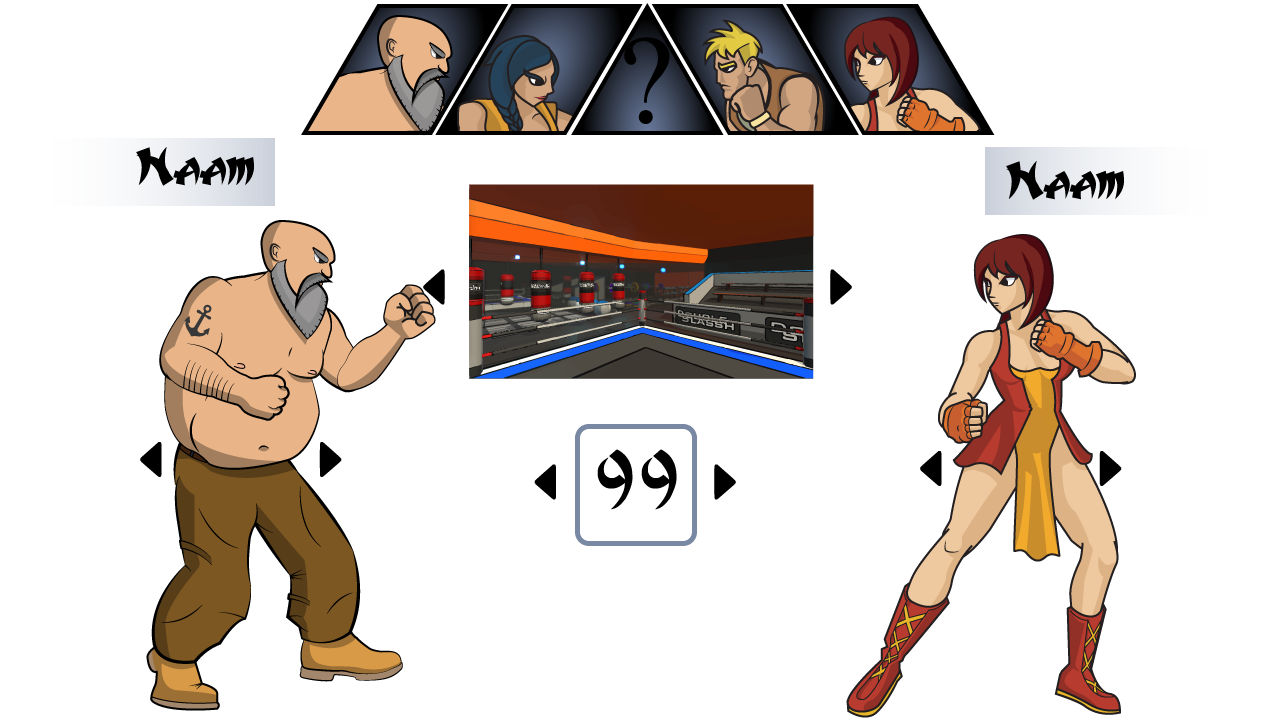
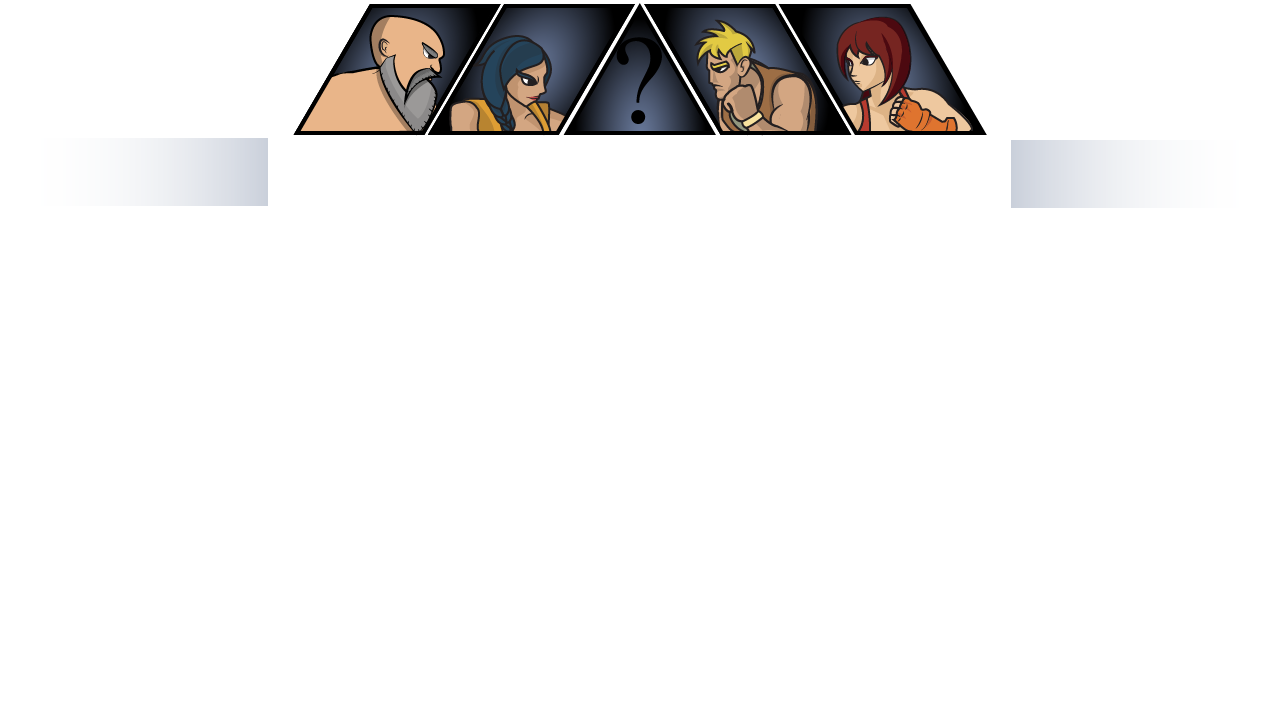
Character Selection

diff --git a/Assets/Scripts/User Interface/MainMenu.cs b/Assets/Scripts/User Interface/MainMenu.cs
@@ -7,38 +7,56 @@ public class MainMenu : MonoBehaviour {
 	[SerializeField] Texture[] optionsItems;
 	[SerializeField] Texture backButton;
 	[SerializeField] GameObject blankObject;
-	[SerializeField] int index = 0;
+	[SerializePrivateVariables] int index = 0;
 	[SerializePrivateVariables] Vector3 spawnLoc;
 	[SerializePrivateVariables] Vector3 optionsSpawnLoc;
 	[SerializePrivateVariables] Vector3 backbuttonSpawnLoc;
-	[SerializeField] public bool menu = false;
-	[SerializeField] bool options = false;
-	[SerializeField] bool cSelect = false;
-	[SerializeField] GUIStyle style;
+	[SerializePrivateVariables] public bool menu = false;
+	[SerializePrivateVariables] bool options = false;
+	[SerializePrivateVariables] bool cSelect = false;
+	[SerializePrivateVariables] GUIStyle style;
 	[SerializeField] float musicVolume=1;
 	[SerializeField] float effectVolume=1;
-	[SerializeField] private float offset=0.2f;
+	[SerializePrivateVariables] float offset=0.2f;
 	[SerializeField] int difficulty;
 //	[SerializeField] Texture[] characters;
 	[SerializeField] MainMenuCameraMovement cam;
 	[SerializeField] GameObject[] characters;
 	[SerializeField] Texture UI;
+	[SerializeField] Texture Gym;
+	[SerializePrivateVariables] Texture usingArena;
 	[SerializeField] private int choise1 = 0;
 	[SerializeField] private int choise2 = 1;
 	[SerializeField] private int count = 0;
 	[SerializeField] float random;
-	[SerializeField] GameObject chara;
-	[SerializeField] GameObject charb;
-
+	[SerializePrivateVariables] GameObject chara;
+	[SerializePrivateVariables] GameObject charb;
+	[SerializeField] Texture arrowNotSelected;
+	[SerializeField] Texture arrowSelected;
+	[SerializeField] Texture arrowNotSelectedR;
+	[SerializeField] Texture arrowSelectedR;
+	[SerializePrivateVariables] Texture usingarrowL;
+	[SerializePrivateVariables] Texture usingarrowR;
+	[SerializePrivateVariables] Texture usingarrowRL;
+	[SerializePrivateVariables] Texture usingarrowRR;
+	[SerializePrivateVariables] Texture usingarrowArena;
+	[SerializePrivateVariables] Texture usingarrowArenaR;
 
 	void Start(){
 		style = new GUIStyle ();
 		cam = Camera.main.GetComponent<MainMenuCameraMovement>();
 		spawnLoc = new Vector3 (0, 11, 0);
 		backbuttonSpawnLoc = new Vector3 (12.4f, -4.1f, 30);
-		random = Random.Range (60, 300);
+		random = Random.Range (200, 400);
 		menu = false;
 		options = false;
+		usingArena = Gym;
+		usingarrowL = arrowNotSelected;
+		usingarrowR = arrowNotSelectedR;
+		usingarrowRL = arrowNotSelected;
+		usingarrowRR = arrowNotSelectedR;
+		usingarrowArena = arrowNotSelected;
+		usingarrowArenaR = arrowNotSelectedR;
 		SetCharacters ();
 	}
 
@@ -80,6 +98,7 @@ public class MainMenu : MonoBehaviour {
 				options = false;
 			}
 		} else if (cSelect && !cam.moving) {
+			CheckMousePos ();
 			count++;
 			if (count>random) {
 				if (Random.Range (0, 100) > 40) {
@@ -89,7 +108,7 @@ public class MainMenu : MonoBehaviour {
 						charb.GetComponent<CharacterBehaviour> ().animator.PlayAnimation ("Punch");
 					}
 					count = 0;
-					random = Random.Range (60, 300);
+					random = Random.Range (200, 400);
 				} else {
 					if (Random.Range (0, 100) > 50) {
 						chara.GetComponent<CharacterBehaviour> ().animator.PlayAnimation ("Kick");
@@ -97,10 +116,59 @@ public class MainMenu : MonoBehaviour {
 						charb.GetComponent<CharacterBehaviour> ().animator.PlayAnimation ("Kick");
 					}
 					count = 0;
-					random = Random.Range (60, 300);
+					random = Random.Range (200, 400);
 				}
 			}
 			GUI.DrawTexture(new Rect(0,0,Screen.width,Screen.height),UI);
+			GUI.DrawTexture(new Rect(Screen.width*0.4f,Screen.height*0.3f,Screen.width*0.2f,Screen.width*0.113f),usingArena);
+			if (GUI.Button (new Rect (Screen.width * 0.06f, Screen.height * 0.6f, Screen.width * 0.02f, Screen.height * 0.0428f), usingarrowL,style)) {
+
+			}
+			if (GUI.Button (new Rect (Screen.width * 0.3f, Screen.height * 0.6f, Screen.width * 0.02f, Screen.height * 0.0428f), usingarrowR,style)) {
+
+			}
+			if (GUI.Button (new Rect (Screen.width * 0.65f, Screen.height * 0.6f, Screen.width * 0.02f, Screen.height * 0.0428f), usingarrowRL,style)) {
+
+			}
+			if (GUI.Button (new Rect (Screen.width * 0.89f, Screen.height * 0.6f, Screen.width * 0.02f, Screen.height * 0.0428f), usingarrowRR,style)) {
+
+			}
+			if (GUI.Button (new Rect (Screen.width * 0.37f, Screen.height * 0.38f, Screen.width * 0.02f, Screen.height * 0.0428f), usingarrowArena,style)) {
+
+			}
+			if (GUI.Button (new Rect (Screen.width * 0.61f, Screen.height * 0.38f, Screen.width * 0.02f, Screen.height * 0.0428f), usingarrowArenaR,style)) {
+
+			}
+		}
+	}
+
+	void CheckMousePos(){
+		usingarrowL = arrowNotSelected;
+		usingarrowR = arrowNotSelectedR;
+		usingarrowRL = arrowNotSelected;
+		usingarrowRR = arrowNotSelectedR;
+		usingarrowArena = arrowNotSelected;
+		usingarrowArenaR = arrowNotSelectedR;
+		if (Input.mousePosition.y > Screen.height * 0.35f && Input.mousePosition.y < Screen.height * 0.4f) {
+			if (Input.mousePosition.x > Screen.width * 0.06f && Input.mousePosition.x < Screen.width * 0.08f) {
+				usingarrowL = arrowSelected;
+			}
+			if (Input.mousePosition.x > Screen.width * 0.3f && Input.mousePosition.x < Screen.width * 0.32f) {
+				usingarrowR = arrowSelectedR;
+			}
+			if (Input.mousePosition.x > Screen.width * 0.65f && Input.mousePosition.x < Screen.width * 0.67f) {
+				usingarrowRL = arrowSelected;
+			}
+			if (Input.mousePosition.x > Screen.width * 0.89f && Input.mousePosition.x < Screen.width * 0.91f) {
+				usingarrowRR = arrowSelectedR;
+			}
+		} else if (Input.mousePosition.y > Screen.height * 0.57f && Input.mousePosition.y < Screen.height * 0.62f) {
+			if (Input.mousePosition.x > Screen.width * 0.37f && Input.mousePosition.x < Screen.width * 0.39f) {
+				usingarrowArena = arrowSelected;
+			}
+			if (Input.mousePosition.x > Screen.width * 0.61f && Input.mousePosition.x < Screen.width * 0.63f) {
+				usingarrowArenaR = arrowSelectedR;
+			}
 		}
 	}
 

diff --git a/Assets/Scripts/User Interface/Healthbar.cs b/Assets/Scripts/User Interface/Healthbar.cs
@@ -8,7 +8,6 @@ public class Healthbar : MonoBehaviour {
 	[SerializeField] WinLoseScreen winLose;
 	[SerializeField] public Arena.ArenaManagement arena;
 	[SerializeField] Texture healthBarFrontLeft;
-	[SerializeField] Texture healthBarFrontRight;
 	[SerializeField] public Texture characterIcon0;
 	[SerializeField] public Texture characterIcon1;
 	[SerializeField] Texture healthBarBack;
@@ -74,14 +73,18 @@ public class Healthbar : MonoBehaviour {
 	}
 
 	void OnGUI(){
-		GUI.DrawTexture (new Rect (Screen.width * 0.455f, -Screen.height * 0.047f, Screen.width * -(0.00325f*showHealth[0]), Screen.height * 0.25f), healthBarBack, ScaleMode.ScaleAndCrop);
-		GUI.DrawTexture (new Rect (Screen.width * 0.545f, -Screen.height * 0.047f, Screen.width * (0.00325f*showHealth[1]), Screen.height * 0.25f), healthBarBack, ScaleMode.ScaleAndCrop);
+		//GUI.Lab (new Rect (Screen.width * 0.455f, -Screen.height * 0.047f, Screen.width * -(0.00325f*showHealth[0]), Screen.height * 0.25f), healthBarBack, ScaleMode.ScaleAndCrop);
+	//	GUI.DrawTexture (new Rect (Screen.width * 0.455f, -Screen.height * 0.047f, Screen.width * -(0.00325f*showHealth[0]), Screen.height * 0.25f), healthBarBack, ScaleMode.ScaleAndCrop);
+	//	GUI.DrawTexture (new Rect (Screen.width * 0.545f, -Screen.height * 0.047f, Screen.width * (0.00325f*showHealth[1]), Screen.height * 0.25f), healthBarBack, ScaleMode.ScaleAndCrop);
 
-		GUI.DrawTexture (new Rect (Screen.width * 0.014f, Screen.height * 0.013f, Screen.width * 0.1f, Screen.width * 0.1f), characterIcon0, ScaleMode.ScaleToFit);
-		GUI.DrawTextureWithTexCoords(new Rect(Screen.width * 0.985f, Screen.height * 0.013f, Screen.width * -0.1f, Screen.width * 0.1f), characterIcon1, new Rect(0, 0, 1, 1));
+	//	GUI.DrawTexture (new Rect (Screen.width * 0.014f, Screen.height * 0.013f, Screen.width * 0.1f, Screen.width * 0.1f), characterIcon0, ScaleMode.ScaleToFit);
+	//	GUI.DrawTextureWithTexCoords(new Rect(Screen.width * 0.985f, Screen.height * 0.013f, Screen.width * -0.1f, Screen.width * 0.1f), characterIcon1, new Rect(0, 0, 1, 1));
 
+		//GUI.Label (new Rect (0, Screen.width * -0.006f, Screen.width * 0.47f, Screen.width * 0.1234f), healthBarFrontLeft, style);
+		//GUI.DrawTexture(new Rect (0, Screen.width * -0.006f, Screen.width * 0.47f, Screen.width * 0.1234f), healthBarFrontLeft);
 		GUI.DrawTextureWithTexCoords (new Rect (0,Screen.width*-0.006f, Screen.width * 0.47f,Screen.width * 0.1234f), healthBarFrontLeft, new Rect(0, 0, 1, 1));
-		GUI.DrawTextureWithTexCoords (new Rect (Screen.width*0.53f, Screen.width*-0.006f, Screen.width * 0.47f, Screen.width * 0.1234f), healthBarFrontLeft, new Rect(0, 0, -1, 1));
+		//GUI.DrawTextureWithTexCoords (new Rect (Screen.width*1,Screen.width*-0.006f, Screen.width * -0.47f,Screen.width * 0.8f), healthBarFrontLeft, new Rect(0, 0, -1, 1));
+		GUI.DrawTextureWithTexCoords (new Rect (Screen.width*0.53f, Screen.width*-0.006f, Screen.width * 0.47f, Screen.width * 0.1234f), healthBarFrontLeft, new Rect(1, 0, -1, 1));
 
 		GUI.TextField (new Rect (Screen.width * 0.475f, Screen.height * 0.05f, Screen.width * 0.06f, Screen.height * 0.05f), ""+add0string+time, style);
 		if (pl1won) {
